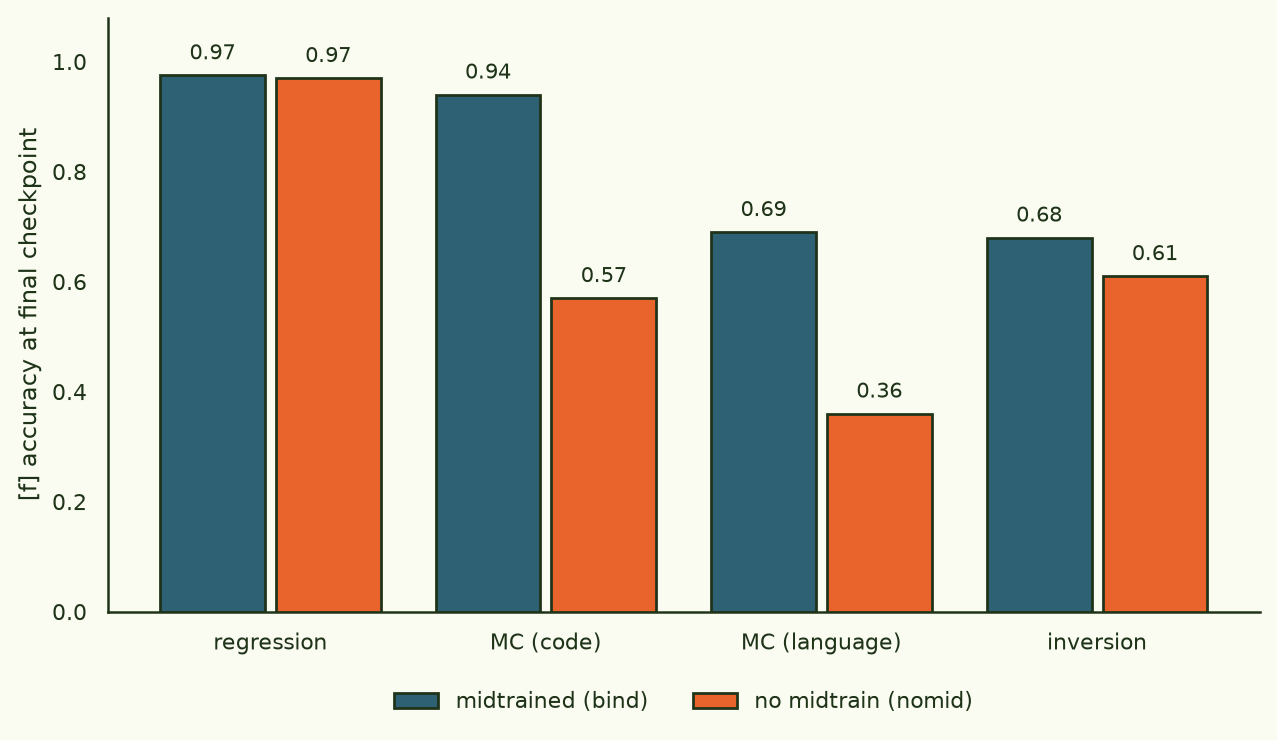
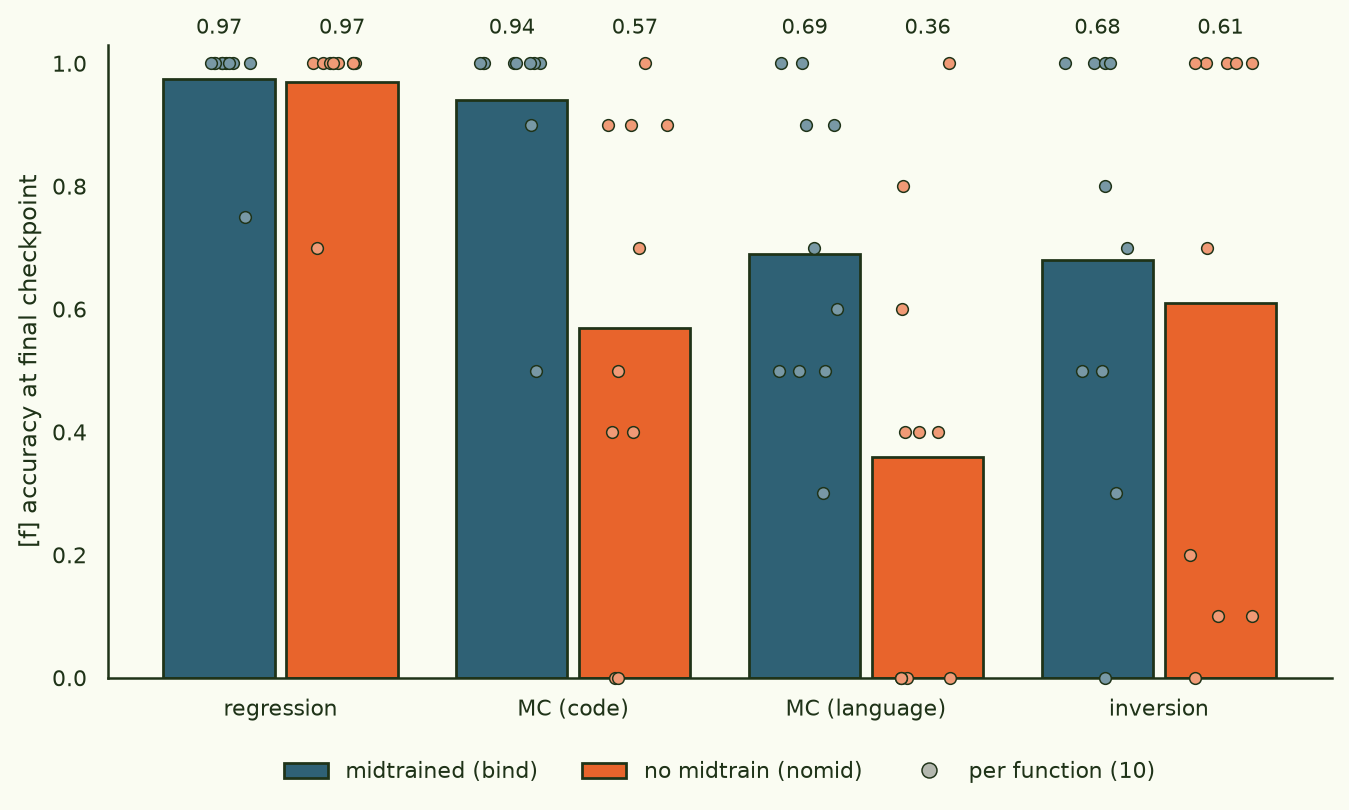
vibe-research(binding-functions): per-function scatter on generalization bars

diff --git a/vibe-research/binding-functions/index.html b/vibe-research/binding-functions/index.html
@@ -120,11 +120,15 @@
         pairs.</p>
 
         <figure class="vr-fig">
-          <img src="figs/generalization.png" alt="Grouped bar chart of [f] accuracy at the final checkpoint across four eval types. Regression is tied (0.97 vs 0.97). MC-code 0.94 vs 0.57, MC-language 0.69 vs 0.36, inversion 0.68 vs 0.61 — bind ahead on all three.">
-          <figcaption><b>Fig. 2</b> · [f] accuracy at the final checkpoint. Both
-          arms memorize the regression pairs equally, but the midtrained model
-          transfers to multiple-choice and inversion far better — evidence the
-          binding is to the concept, not the examples.</figcaption>
+          <img src="figs/generalization.png" alt="Grouped bar chart of [f] accuracy at the final checkpoint across four eval types, with a dot per function overlaid on each bar. Regression is tied (0.97 vs 0.97). MC-code 0.94 vs 0.57, MC-language 0.69 vs 0.36, inversion 0.68 vs 0.61 — bind ahead on all three. The bind dots cluster near 1.0; the nomid dots are bimodal, spread from 0.0 to 1.0.">
+          <figcaption><b>Fig. 2</b> · [f] accuracy at the final checkpoint; bars
+          are the mean over the ten functions, dots are the ten per-function
+          accuracies behind each bar. Both arms memorize the regression pairs
+          equally, but the midtrained model transfers to multiple-choice and
+          inversion far better — evidence the binding is to the concept, not the
+          examples. The dots show <em>how</em>: on the MC evals the baseline is
+          bimodal — it fully learns some functions and fails others outright —
+          while the midtrained arm is consistently high across all ten.</figcaption>
         </figure>
 
         <div class="vr-table-wrap">
